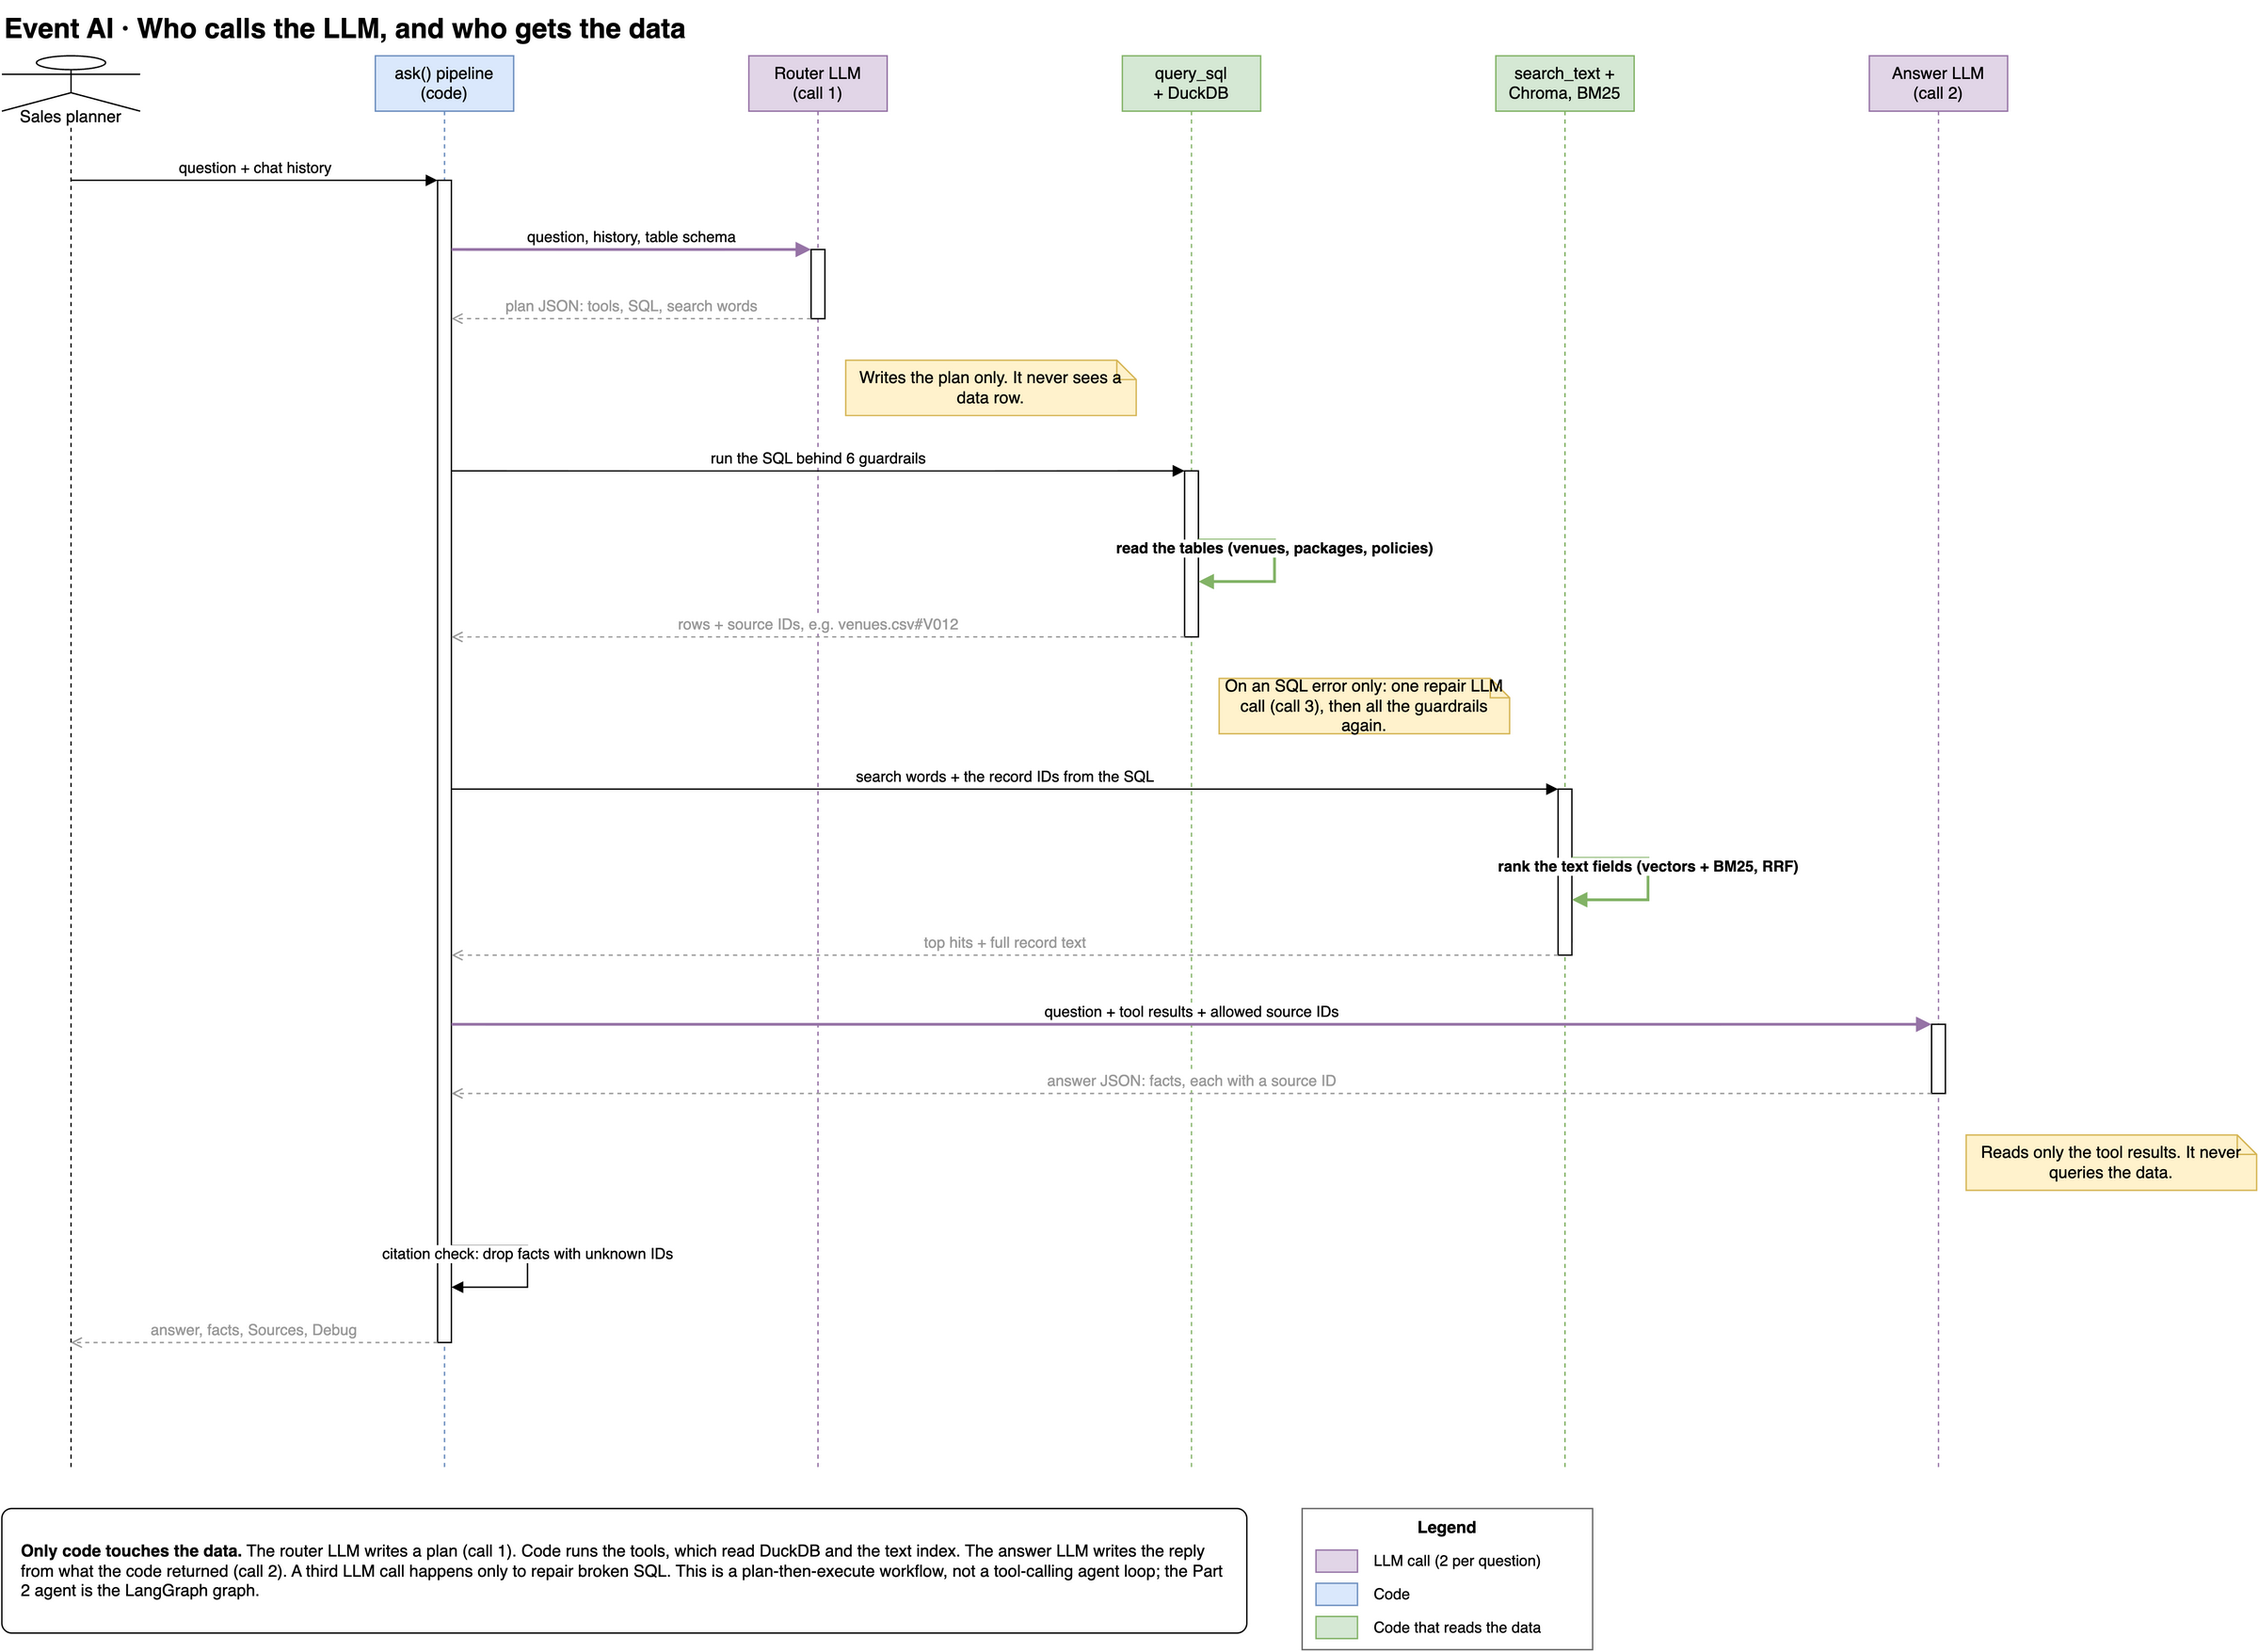
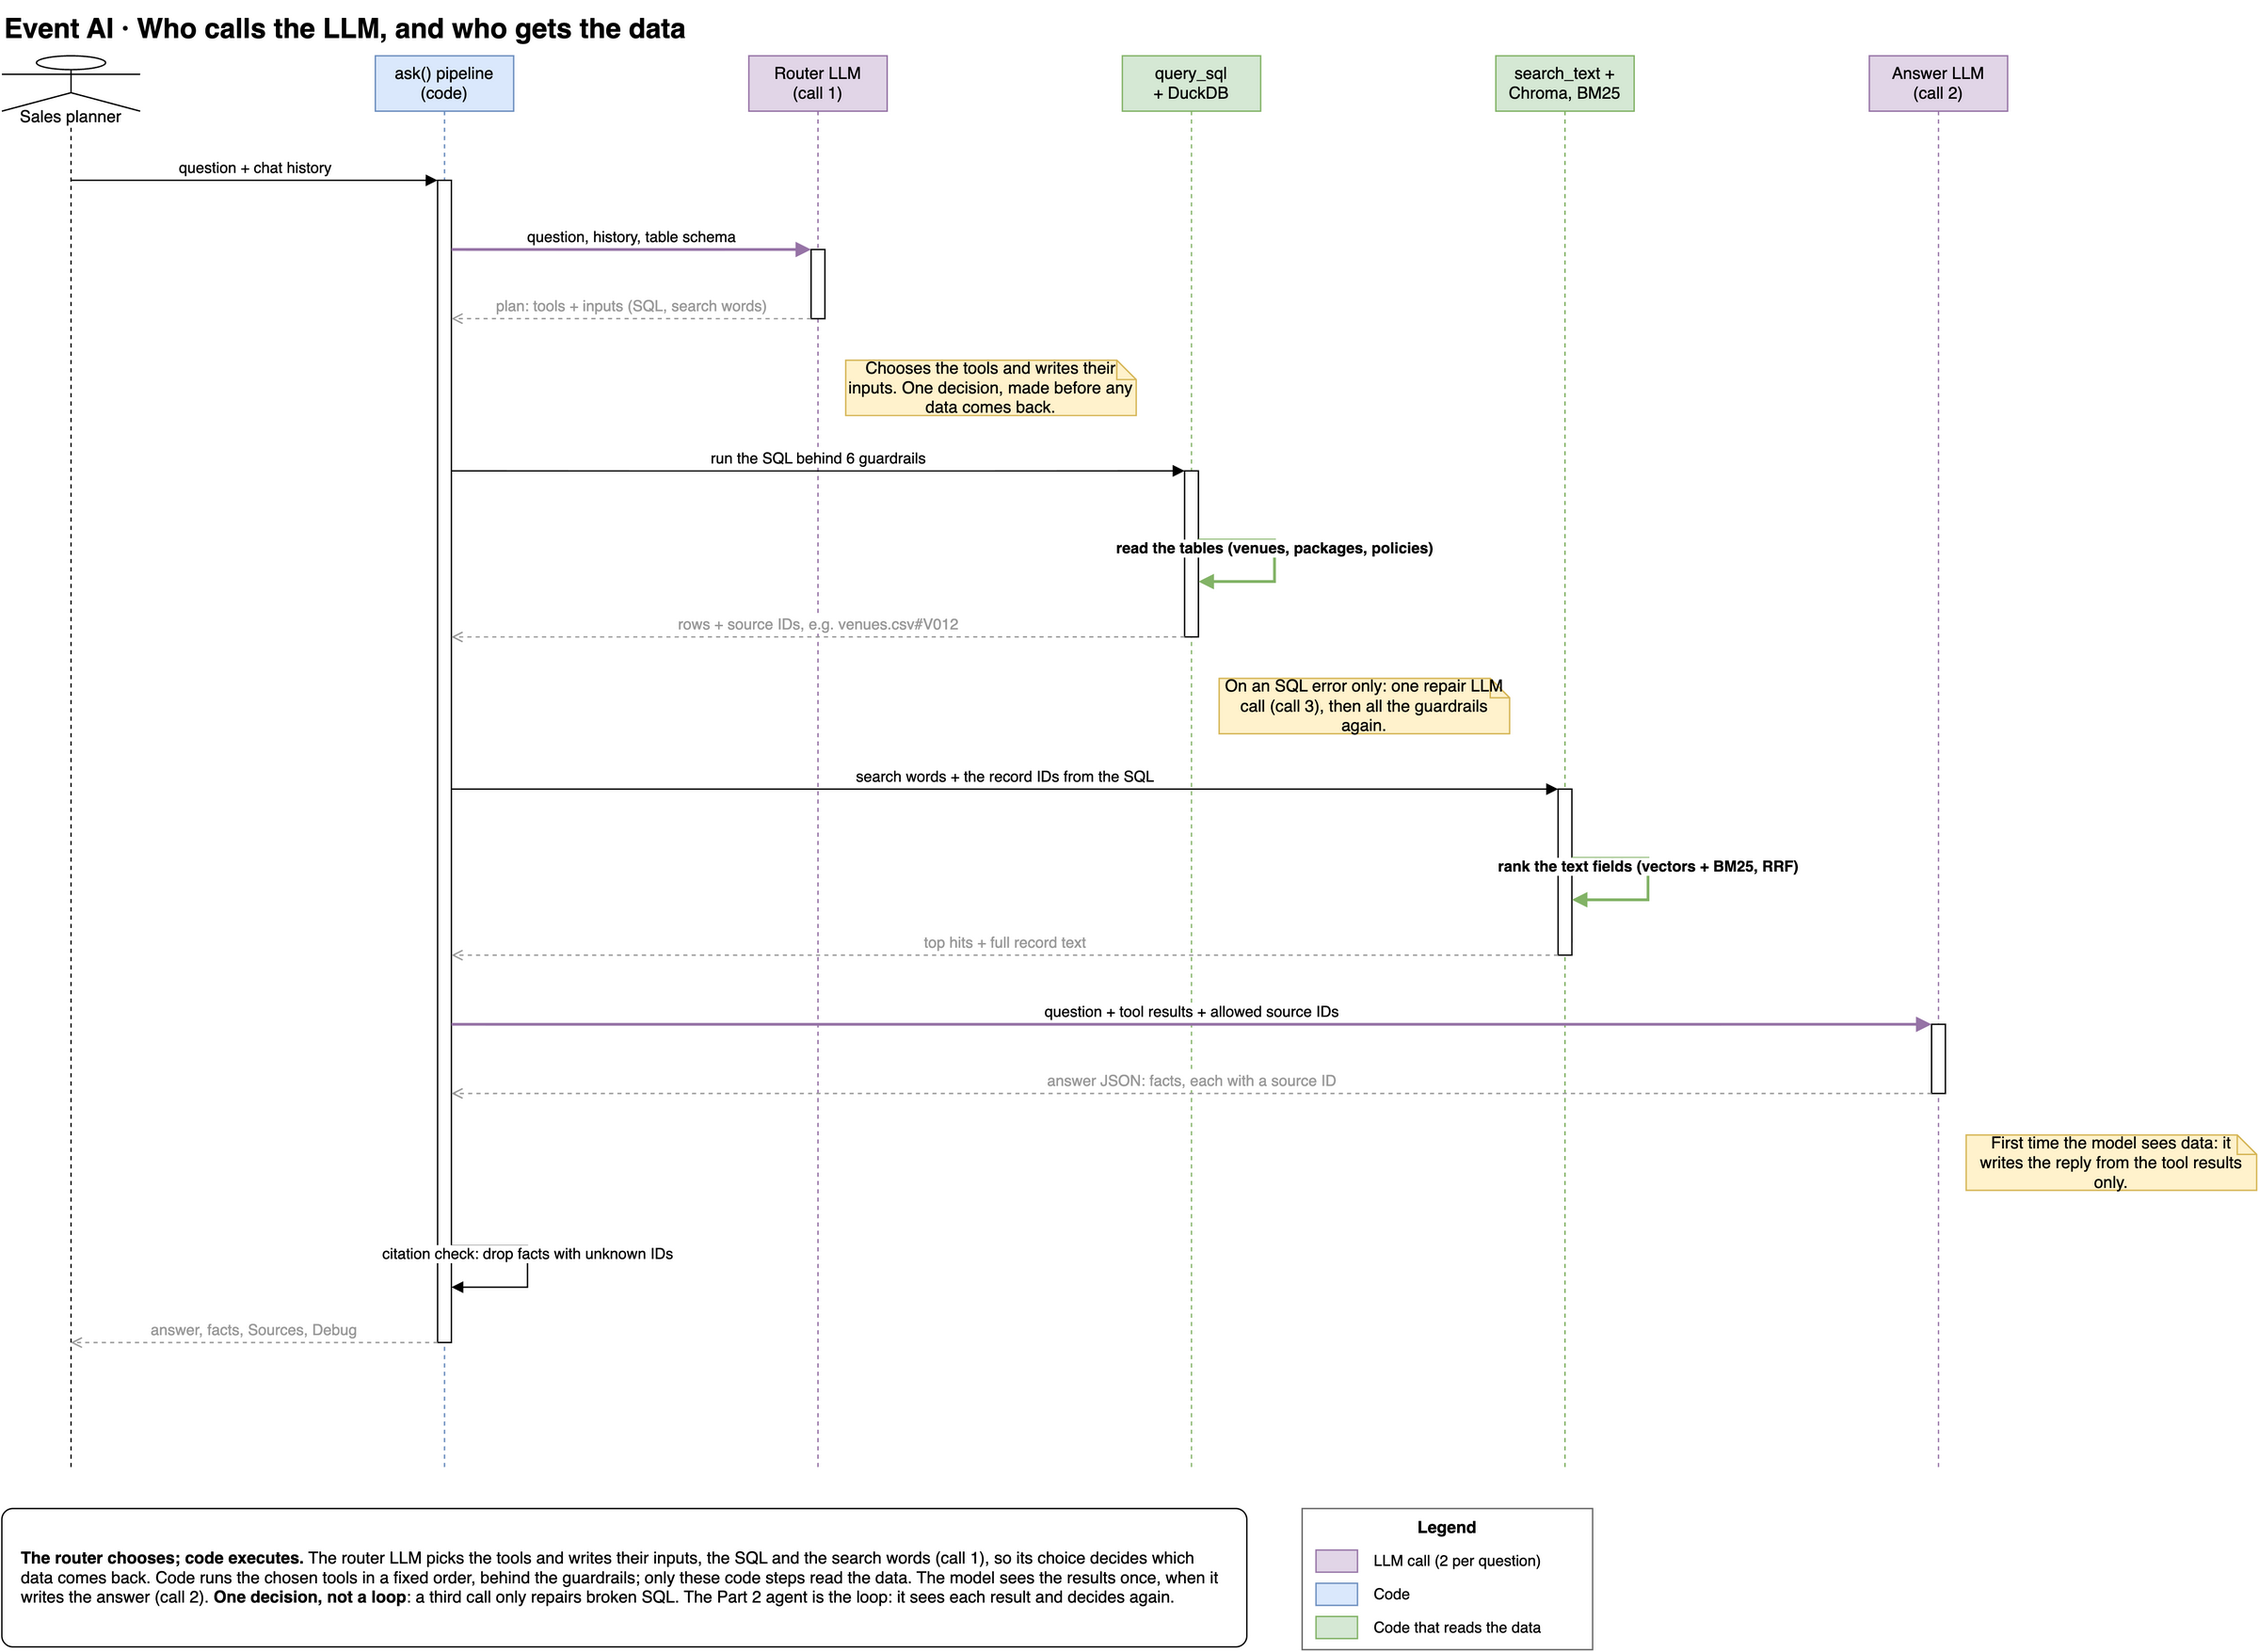
Reword the LLM-call diagram: the router chooses, code executes
Notes, plan label and callout now say that the router chooses the tools and writes
their inputs, code runs them, and it is one decision, not a loop.

Changed region(s): [[0.0, 0.9231, 0.5625, 1.0], [0.875, 0.6769, 1.0, 0.7385], [0.375, 0.2154, 0.5, 0.2462]]

diff --git a/docs/diagrams/build_part1_diagrams.py b/docs/diagrams/build_part1_diagrams.py
@@ -207,12 +207,13 @@ def page4(seq_xml):
         page = add_style(page, msg, "strokeColor=#82b366;strokeWidth=2;fontStyle=1;")
     extra = Page("extra")
     extra.title("t4", "Event AI · Who calls the LLM, and who gets the data", y=0, w=900)
-    extra.v("key4", "<b>Only code touches the data.</b> The router LLM writes a plan (call 1). Code runs the tools, "
-            "which read DuckDB and the text index. The answer LLM writes the reply from what the code returned "
-            "(call 2). A third LLM call happens only to repair broken SQL. This is a plan-then-execute workflow, "
-            "not a tool-calling agent loop; the Part 2 agent is the LangGraph graph.",
+    extra.v("key4", "<b>The router chooses; code executes.</b> The router LLM picks the tools and writes their "
+            "inputs, the SQL and the search words (call 1), so its choice decides which data comes back. Code runs "
+            "the chosen tools in a fixed order, behind the guardrails; only these code steps read the data. The "
+            "model sees the results once, when it writes the answer (call 2). <b>One decision, not a loop</b>: a "
+            "third call only repairs broken SQL. The Part 2 agent is the loop: it sees each result and decides again.",
             BOX + "align=left;spacingLeft=12;spacingRight=12;fillColor=#ffffff;strokeColor=#000000;",
-            40, 1090, 900, 90)
+            40, 1090, 900, 100)
     extra.legend("lg4", 980, 1090, [(LLM, "LLM call (2 per question)"), (CODE, "Code"),
                                     (STORE, "Code that reads the data")])
     return page.replace("</root>", "".join(extra.cells) + "</root>")
